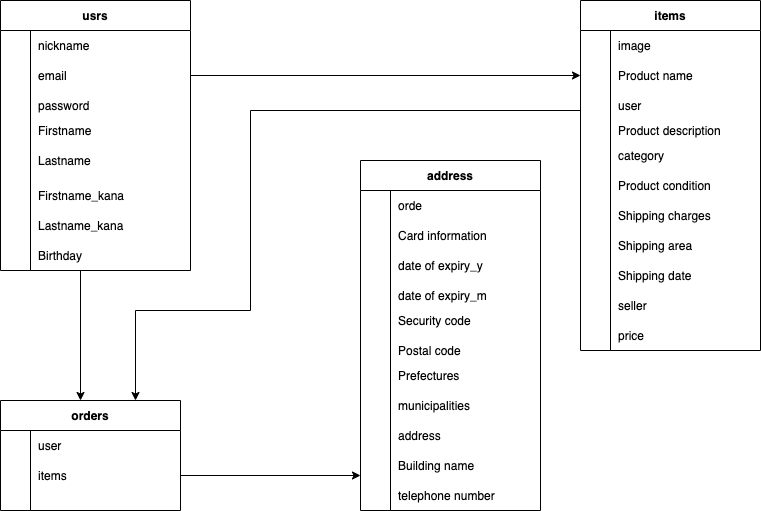
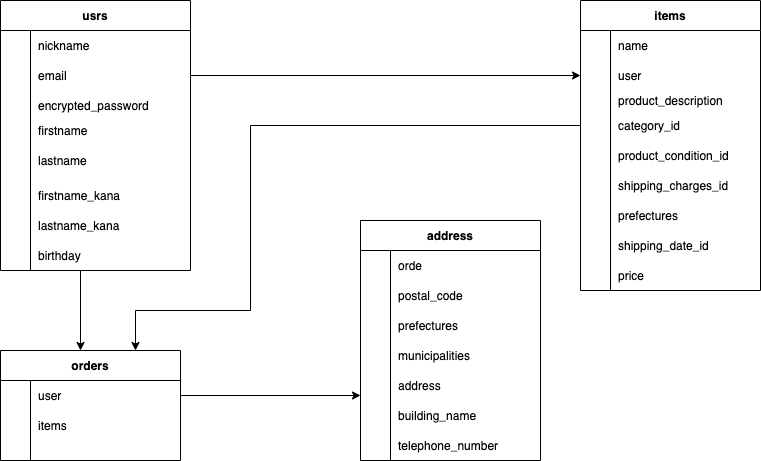
データベース設計5

diff --git a/README.md b/README.md
@@ -3,49 +3,54 @@
 |------------------|--------|---------------|
 |nickname          |string  |NOT NULL       |
 |email             |string  |NOT UNIQUE     |
-|password          |string  |NOT NULL       |
-|Firstname         |string  |NOT NULL       |
-|Lastname          |string  |NOT NULL       |
-|Firstname_kana    |string  |NOT NULL       |
-|Lastname_kana     |string  |NOT NULL       |
-|Birthday          |string  |NOT NULL       |
+|encrypted_password|string  |NOT NULL       |
+|firstname         |string  |NOT NULL       |
+|lastname          |string  |NOT NULL       |
+|firstname_kana    |string  |NOT NULL       |
+|lastname_kana     |string  |NOT NULL       |
+|birthday          |date    |NOT NULL       |
+
+### Association
+- has_many :items
+- has_many :orders
 
 
 ##itemsテーブル
-|Column                    |Type        |Options        |
-|--------------------------|------------|---------------|
-|image                     |            |               |
-|Product name              |text        |NOT NULL       |
-|user                      |references  |               |
-|Product description       |text        |NOT NULL       |
-|category                  |text        |NOT NULL       |
-|Product condition         |text        |NOT NULL       |
-|Shipping charges          |text        |NOT NULL       |
-|Shipping area             |text        |NOT NULL       |
-|Shipping date             |text        |NOT NULL       |
-|price                     |text        |NOT NULL       |
-|seller                    |text        |NOT NULL       |
+|Column                    |Type        |Options          |
+|--------------------------|------------|-----------------|
+|name                      |string      |NOT NULL         |
+|user                      |references  |foreign_key: true|
+|product_description       |text        |NOT NULL         |
+|category_id               |integer     |NOT NULL         |
+|product_condition_id      |integer     |NOT NULL         |
+|shipping_charge_id        |integer     |NOT NULL         |
+|prefectures               |integer     |NOT NULL         |
+|shipping_date_id          |integer     |NOT NULL         |
+|price                     |integer     |NOT NULL         |
 
 
-##orderテーブル
+### Association
+- has_one :order
+- belongs_to :users
+
+##ordersテーブル
 |Column            |Type      |Options           |
 |------------------|----------|------------------|
-|user              |references|                  |
-|items             |references|                  |
+|user              |references|foreign_key: true |
+|item              |references|foreign_key: true |
 |
-
+### Association
+- has_one :address
+- belongs_to :users
 
 ##addressテーブル
 |Column            |Type      |Options           |
 |------------------|----------|------------------|
-|order             |references|                  |
-|Card information  |text      |NOT NULL          |
-|date of expiry_y  |text      |NOT NULL          |
-|date of expiry_m  |text      |NOT NULL          |
-|Security code     |text      |NOT NULL          |
-|Postal code       |text      |NOT NULL          |
-|Prefectures       |text      |NOT NULL          |
-|municipalities    |text      |NOT NULL          |
-|address           |text      |NOT NULL          |
-|Building name     |text      |                  |
-|telephone number  |text      |NOT NULL          |
+|order             |references|foreign_key: true |
+|postal_code       |text      |NOT NULL          |
+|prefectures       |integer   |NOT NULL          |
+|municipalities    |string    |NOT NULL          |
+|address           |string    |NOT NULL          |
+|building_name     |string    |                  |
+|telephone_number  |string    |NOT NULL          |
+
